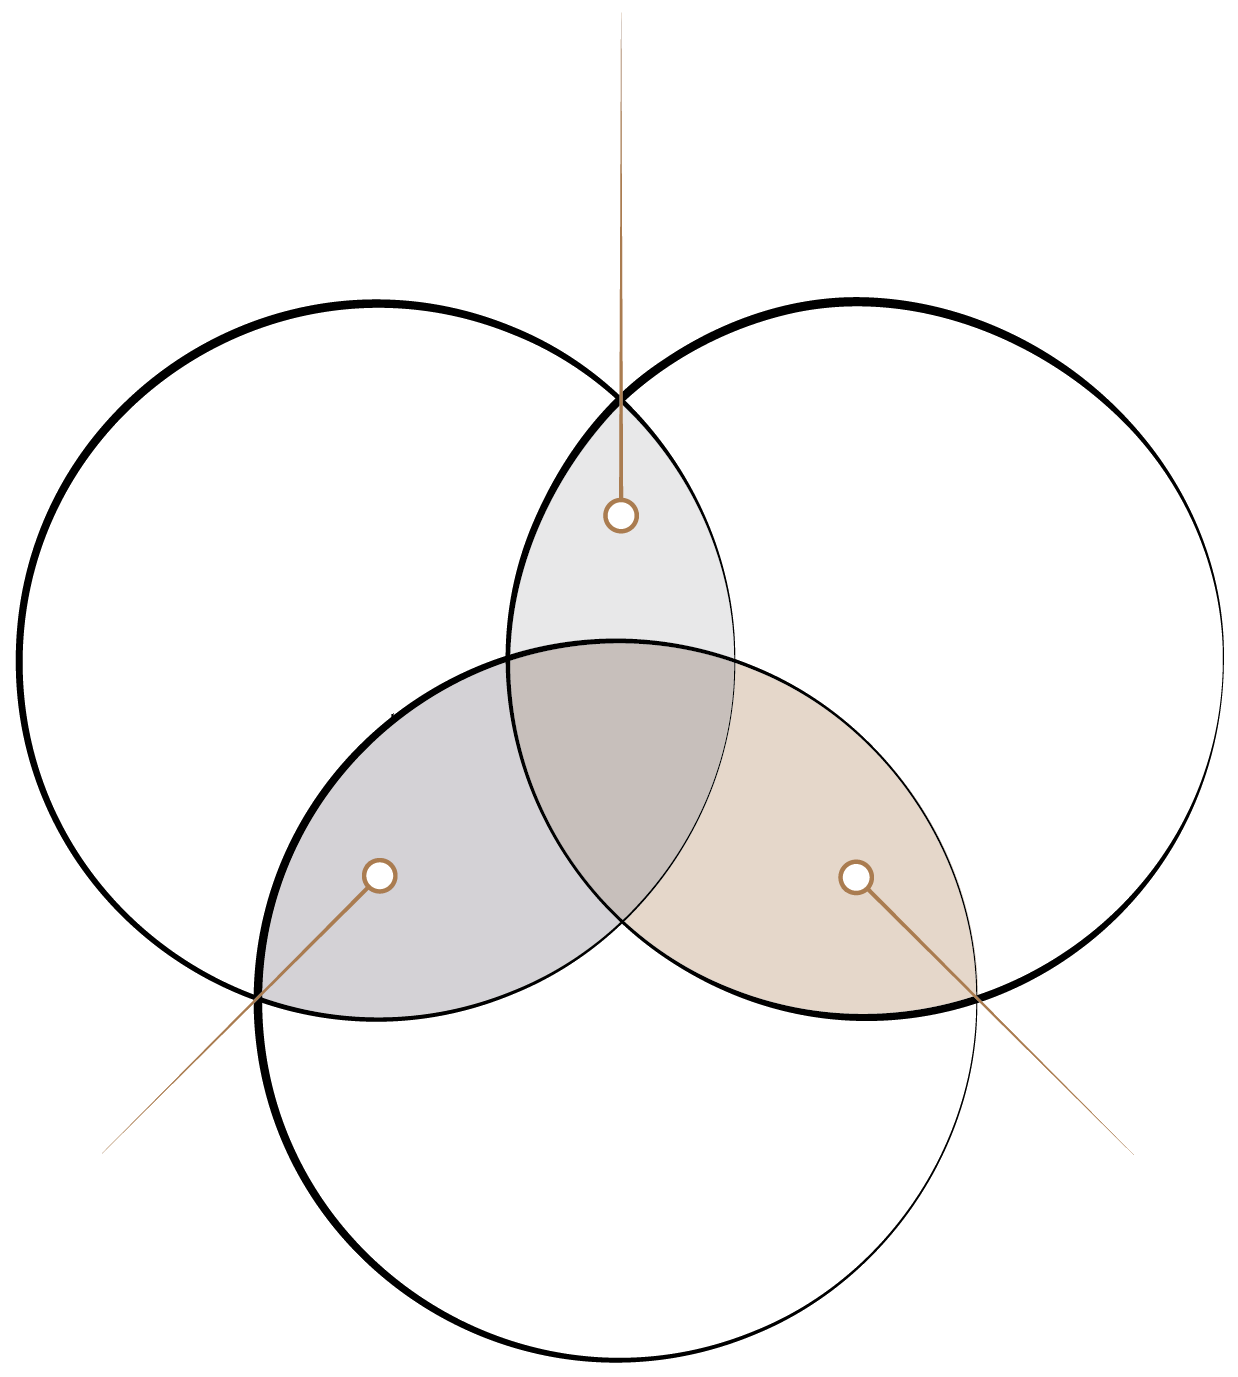
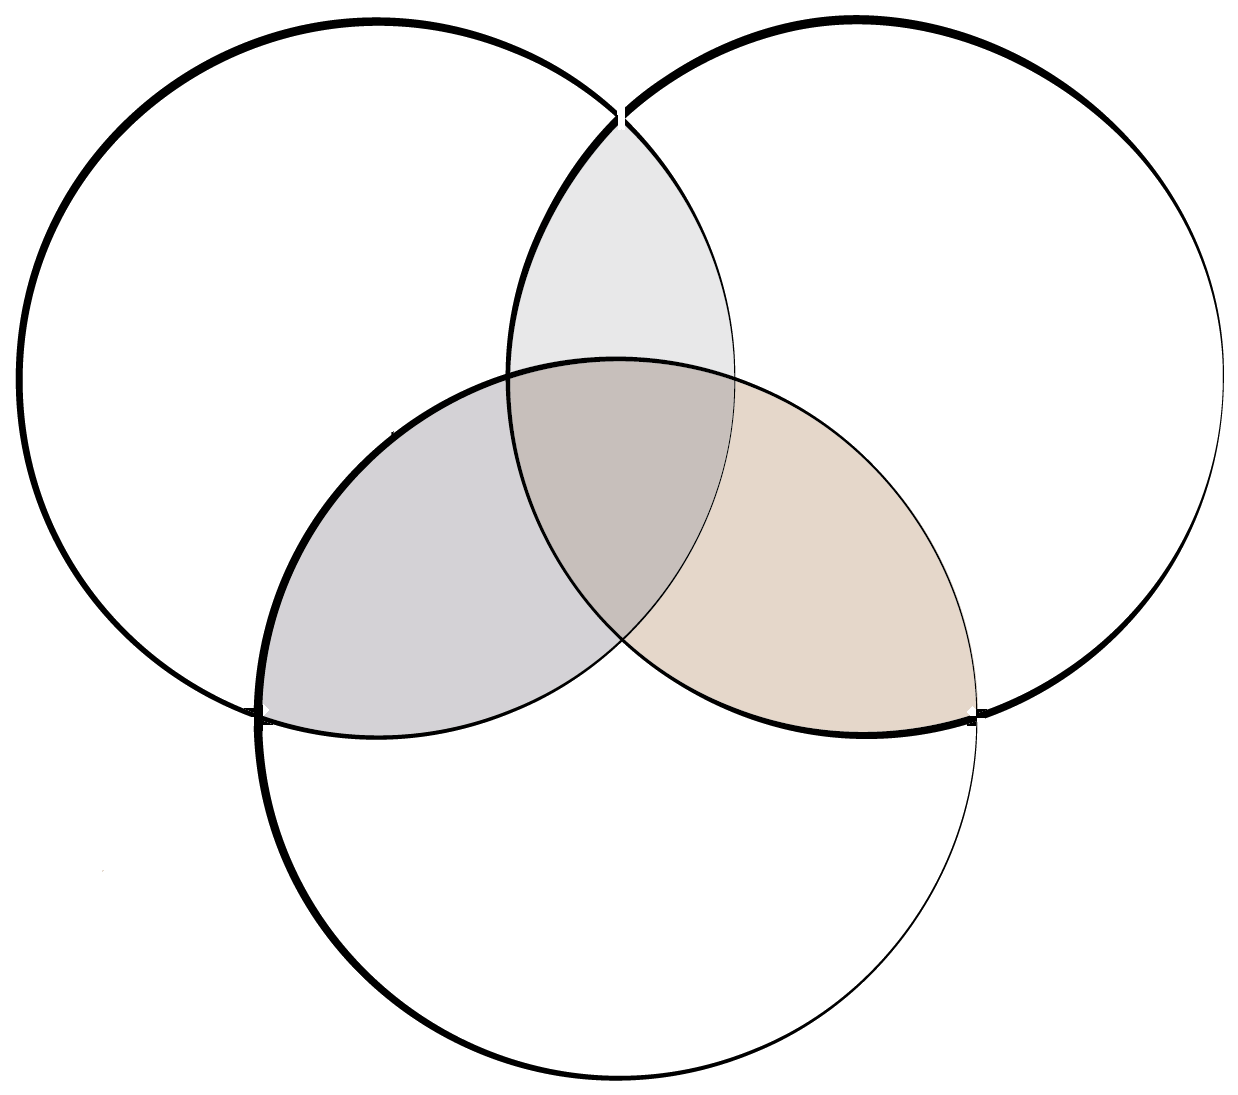
Remove connector lines and dots from the Venn diagram
Erase the tan connector lines, their marker dots, and the white casing
drawn under them, patching the resulting gaps with each lens's own fill
color so the shading stays seamless. Move the I/II/III numerals inside
their matching overlap regions (where the dots used to be) since they no
longer have a line to sit at the end of, and recompute all label
positions for the new, tighter crop.

diff --git a/assets/css/style.css b/assets/css/style.css
@@ -140,6 +140,7 @@ h1 {
 
 .research-diagram-number {
   position: absolute;
+  transform: translate(-50%, -50%);
   font-weight: 700;
   font-size: 1.05rem;
   color: #000;

diff --git a/research.md b/research.md
@@ -8,12 +8,12 @@ Our group conducts research at the intersections of art, technology and architec
 <div class="research-diagram">
   <div class="research-diagram-inner">
     <img src="/at-a/assets/images/research/venn-diagram.png" alt="Venn diagram showing the group's research positioned at the intersections of Art & Humanities, Technology, and Architecture">
-    <span class="research-diagram-label" style="left:27.5%; top:32.4%;">Art & Humanities</span>
-    <span class="research-diagram-label" style="left:74.7%; top:33%;">Technology</span>
-    <span class="research-diagram-label" style="left:50.2%; top:88.7%;">Architecture</span>
-    <span class="research-diagram-number" style="left:50.2%; top:0.9%; transform:translate(-50%,-160%);">I</span>
-    <span class="research-diagram-number" style="left:12%; top:80.4%; transform:translate(-140%,20%);">II</span>
-    <span class="research-diagram-number" style="left:88.9%; top:81.5%; transform:translate(40%,20%);">III</span>
+    <span class="research-diagram-label" style="left:27.5%; top:15%;">Art & Humanities</span>
+    <span class="research-diagram-label" style="left:74.7%; top:15.8%;">Technology</span>
+    <span class="research-diagram-label" style="left:50.2%; top:85.8%;">Architecture</span>
+    <span class="research-diagram-number" style="left:50.2%; top:21.4%;">I</span>
+    <span class="research-diagram-number" style="left:30.7%; top:54.3%;">II</span>
+    <span class="research-diagram-number" style="left:69.1%; top:54.3%;">III</span>
   </div>
 </div>
 
